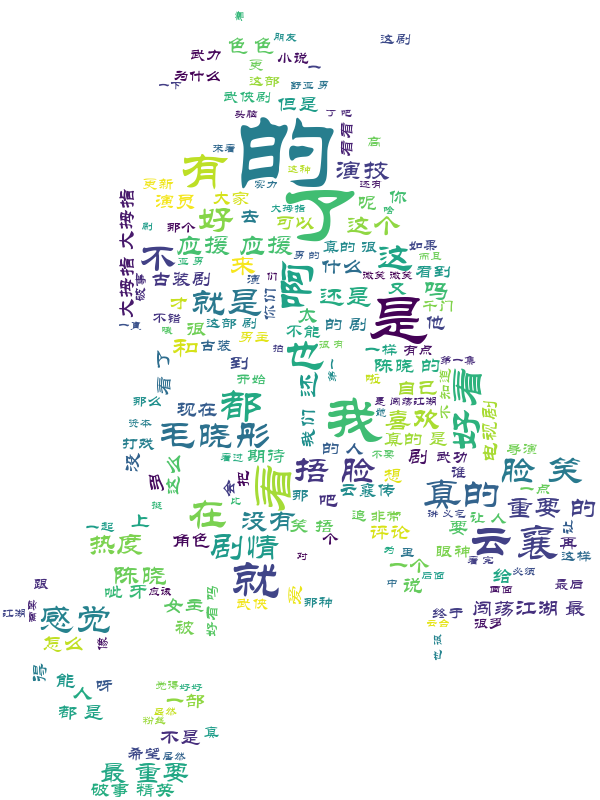
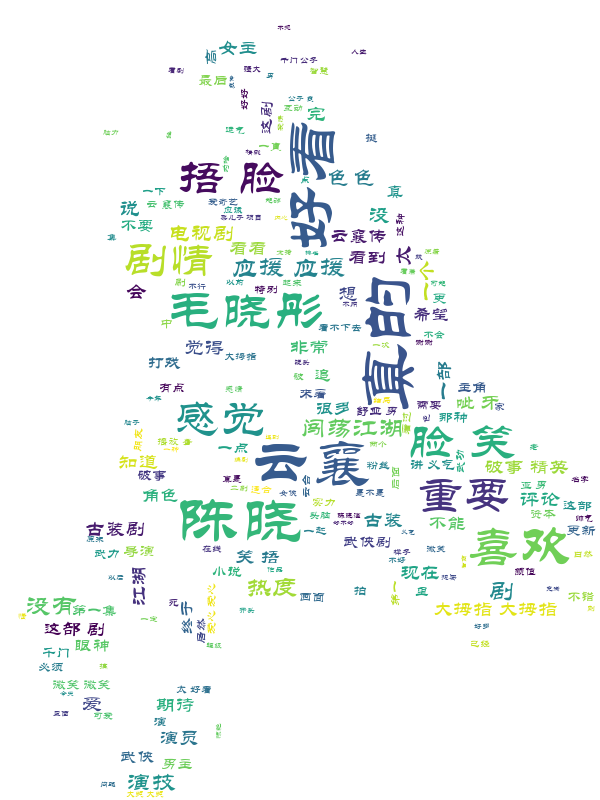
提高了封装性,迭代版本,删除了失效代码.

Changed region(s): [[0.0, 0.0, 0.99, 0.9062], [0.15, 0.8438, 0.39, 1.0], [0.63, 0.0312, 0.69, 0.0625]]

diff --git a/爬虫.py b/爬虫.py
@@ -49,70 +49,43 @@ def get_danmu():
     time.sleep(2)
 
 
-# def dorama_url_get():
-#     # url_1 = "https://v.qq.com/channel/tv/list?filter_params=ifeature%3D-1%26iarea%3D814%26iyear%3D2023%26ipay%3D-1%26sort%3D75&page_id=channel_list_second_page"
-#     url = "https://pbaccess.video.qq.com/trpc.vector_layout.page_view.PageService/getPage?video_appid=3000010"
-#     headers = {'User-Agent': 'Mozilla/5.0 (Windows NT 10.0; Win64; x64) AppleWebKit/537.36 (KHTML, like Gecko) Chrome/115.0.0.0 Safari/537.36 Edg/115.0.1901.183'}
-#     cookies = {"Cookie":"pgv_pvid=184197000; RK=S20sAhgAH/; ptcz=77015465c8b1c3cf6c05b8fd49727f783a61aca766fa4ffaf42994df2f8236d8; pac_uid=1_1214602074; iip=0; eas_sid=a1X6I9n0F1U1w041v3s6K6r9C1; qq_domain_video_guid_verify=4cccd06f254eab04; video_platform=2; video_guid=4cccd06f254eab04; pgv_info=ssid=s5322851164; o_cookie=1214602074; vversion_name=8.2.95; video_omgid=4cccd06f254eab04; _video_qq_login_time_init=1690377511; qz_gdt=seq4czadaaaimuaejdja; login_time_last=2023-7-26 21:37:26"}
-#     Post_data = {
-#         'caller_id'
-#         :
-#             "3000010",
-#         "data_mode"
-#         :
-#             "default",
-#         "page_id":"100113",
-#         "page_type":"channel",
-#        "platform_id":"2", "user_mode": "defau"
-#     }
-#     dorama_url = requests.post(url=url,headers=headers,cookies=cookies,data=Post_data).text
-#
-#     print(dorama_url)
-#     json.loads(dorama_url)
-#
-#     dorama_text = dorama_url
-
-
-
-pinglun_data = []
-
-
-def Iqiyi(content_id,pinglun_data,last_id='&'):
+def Iqiyi(name, content_id,last_id='&'):
     '''
 
     :param last_id:评论的最后一个id在接口请求中能够看到
     :param pinglun_data: 存放数据的list
     :return: 无return值 保存为一个csv文件
     '''
-
-    # https: // sns - comment.iqiyi.com / v3 / comment / get_baseline_comments.action?agent_type = 118 & agent_version = 9.11
-    # .5 & authcookie = null & business_type = 17 & channel_id = 2 & content_id = 8010127344745600 & last_id = & need_vote = 1 & page_size = 10 & qyid = e5debc58fe819b25ca6de2fe991d92cc & sort = HOT & tail_num = 1 & callback = jsonp_1690944202555_34284
-    headers = {"User-Agent":"Mozilla/5.0 (Windows NT 10.0; Win64; x64) AppleWebKit/537.36 (KHTML, like Gecko) Chrome/115.0.0.0 Safari/537.36 Edg/115.0.1901.183"}
-    sort=["TIMEDESC","HOT"]
-    url =f"https://sns-comment.iqiyi.com/v3/comment/get_baseline_comments.action?agent_type=118&agent_version=9.11.5&authcookie=null&business_type=17&channel_id=2&content_id={content_id}&last_id={last_id}&need_vote=1&page=NaN&page_size=40&qyid=e5debc58fe819b25ca6de2fe991d92cc&sort=HOT&tail_num=1&callback=jsonp_1690948653064_72360"
-    print(url)
-    Iqiyi_get = requests.get(url,headers=headers)
-    # 获取的数据被js外边包了一个壳 需要对数据进行处理后才能被json.loads解析
-    u1 = '{'+Iqiyi_get.text.lstrip('try{ jsonp_16904544092779_86397(').rstrip('}) }catch(e){};')+'}}' #删除获取json的外壳
-    # 这个壳我研究了很长时间 死活都没办法被json解析 后来我发现居然是因为我删除的时候多删除了一个括号MMP
-    json_data = json.loads(u1.encode("utf-8"))["data"]["comments"]
-    for comment in json_data:
-        print(comment["id"])
-        if 'content' in comment.keys():
-            pinglun_data.append([comment['content'],comment["userInfo"]["uname"]])
-        #更新last_id
-        last_id = comment["id"]
-    print(len(pinglun_data))
-
-
-
-    if len(pinglun_data) < 800:
+    pinglun_data = []
+    while len(pinglun_data) < 800:
         time.sleep(0.5)
-        Iqiyi(content_id,pinglun_data,last_id)
-        # 递归
+        headers = {"User-Agent":"Mozilla/5.0 (Windows NT 10.0; Win64; x64) AppleWebKit/537.36 (KHTML, like Gecko) Chrome/115.0.0.0 Safari/537.36 Edg/115.0.1901.183"}
+        sort=["TIMEDESC","HOT"]
+        url =f"https://sns-comment.iqiyi.com/v3/comment/get_baseline_comments.action?agent_type=118&agent_version=9.11.5&authcookie=null&business_type=17&channel_id=2&content_id={content_id}&last_id={last_id}&need_vote=1&page=NaN&page_size=40&qyid=e5debc58fe819b25ca6de2fe991d92cc&sort=HOT&tail_num=1&callback=jsonp_1690948653064_72360"
+        print(url)
+        Iqiyi_get = requests.get(url, headers=headers)
+        # 获取的数据被js外边包了一个壳 需要对数据进行处理后才能被json.loads解析
+        u1 = '{'+Iqiyi_get.text.lstrip('try{ jsonp_16904544092779_86397(').rstrip('}) }catch(e){};')+'}}' #删除获取json的外壳
+        # 这个壳我研究了很长时间 死活都没办法被json解析 后来我发现居然是因为我删除的时候多删除了一个括号MMP
+        comment_cont = json.loads(u1.encode("utf-8"))["data"]["totalCount"]
+        json_data = json.loads(u1.encode("utf-8"))["data"]["comments"]
+        for comment in json_data:
+            print(comment["id"])
+            if 'content' in comment.keys():
+                pinglun_data.append([comment['content'],comment["userInfo"]["uname"]])
+            #更新last_id
+            last_id = comment["id"]
+        print(len(pinglun_data))
+        if comment_cont-10 <= len(pinglun_data):
+            pd.DataFrame(pinglun_data).to_csv(f"./评论CSV/{name}.csv", mode="w")
+            pinglun_data.clear()
+            break
+
+
     else:
-        pd.DataFrame(pinglun_data).to_csv("理科生坠入情网.csv",mode="a")
-        return pinglun_data
+        pd.DataFrame(pinglun_data).to_csv(f"./评论CSV/{name}.csv", mode="w")
+        pinglun_data.clear()
+        return
     # 保存为csv
 
 
@@ -130,12 +103,13 @@ def dorama_data_get():
             for comment in json_data:
                 data_list = [comment["title"], comment["description"], comment["tag"], comment["showDate"],
                              [i["name"] for i in comment['creator']], [i["name"] for i in comment["contributor"]]
-                            ,comment["page_url"],comment["image_url_normal"],comment["time_length"],comment["hot_score"]]
+                            , comment["page_url"], comment["image_url_normal"], comment["time_length"], comment["hot_score"], comment["tv_id"]]
                 print(comment["page_url"])
                 print(comment["image_url_normal"])
                 print(data_list)
                 alldata_list.append(data_list)
                 time.sleep(0.5)
+
                 ## 这里是尝试使用接口获取数据,但是爱奇艺的接口被加密过,我没有办法自动获取接口进行爬取搁置在此
 
                 # dorama_data = requests.get(comment["page_url"], headers=headers).text
@@ -157,34 +131,26 @@ def dorama_data_get():
     except:
         mkdir("./爱奇艺数据/电视剧海报")
         for name in alldata_list:
-            picture_resp = requests.get(name[-3])
+            picture_resp = requests.get(name[-4])
             with open(f"./爱奇艺数据/电视剧海报/{name[0]}.jpg", mode='wb') as f:
                 f.write(picture_resp.content)
-        df = pd.DataFrame(alldata_list, columns=["title","description","tag","showDate", 'creators', "contributor", "page_url","img_url","time_length","hot_score"])
+        df = pd.DataFrame(alldata_list, columns=["title","description","tag","showDate", 'creators', "contributor", "page_url", "img_url", "time_length", "hot_score", "content_id"])
         df.to_csv("./爱奇艺数据/爱奇艺热播.csv")
         return alldata_list
 
 
-# def TXvideourl_get():
-#     url = "https://youku.com/channel/webtv/list?filter=type_%E7%94%B5%E8%A7%86%E5%89%A7_year_2023&spm=a2hja.14919748_WEBTV_JINGXUAN.drawer3.d_main_area_1"
-#     # headers = {'User-Agent': 'Mozilla/5.0 (Windows NT 10.0; Win64; x64) AppleWebKit/537.36 (KHTML, like Gecko) Chrome/115.0.0.0 Safari/537.36 Edg/115.0.1901.183', "Cookie":"pgv_pvid=184197000; RK=S20sAhgAH/; ptcz=77015465c8b1c3cf6c05b8fd49727f783a61aca766fa4ffaf42994df2f8236d8; pac_uid=1_1214602074; iip=0; eas_sid=a1X6I9n0F1U1w041v3s6K6r9C1; qq_domain_video_guid_verify=4cccd06f254eab04; video_platform=2; video_guid=4cccd06f254eab04; pgv_info=ssid=s5322851164; o_cookie=1214602074; vversion_name=8.2.95; video_omgid=4cccd06f254eab04; _video_qq_login_time_init=1690377511; qz_gdt=seq4czadaaaimuaejdja; login_time_last=2023-7-26 21:37:26"}
-#     data = requests.get(url=url, headers=headers).text
-#     obj = re.compile(r'<div class="videolist_container_inner">.*?<a class="aplus_exp aplus_clk" herf="(?P<url>.*?)"title="(?P<name>.*?)"target=.*?<img s'
-#                      r'rc="(?P<img_url>.*?)"',re.S)
-#     res = obj.finditer(data)
-#     for i in res:
-#         print(i)
+def comment_data_get(path):
+    df = pd.read_csv(path)
+    for title, content_id in df.iterrows():
+        Iqiyi(content_id[1], content_id[-1])
 
 
 def youku():
-    print(1)
     TV_Data = []
     driver = webdriver.Chrome(executable_path="./chromedriver.exe")
-    print(1)
     driver.get("https://www.youku.com/channel/webtv/list?filter=type_%E7%94%B5%E8%A7%86%E5%89%A7_year_2023&spm=a2hja.14919748_WEBTV_JINGXUAN.drawer3.d_sort_1")
     css_selectors = ["#app > div.app_normal.window > div.modulelist_s_body > div.videolist_s_body > div > div > div:nth-child(4) > div > div:nth-child({}) > div > div > div.categorypack_info_list > div.categorypack_title.categorypack_short_title > a".format(str(i)) for i in range(41)]
     for css_selector in css_selectors:
-        print("1")
         if css_selector == "#app > div.app_normal.window > div.modulelist_s_body > div.videolist_s_body > div > div > div:nth-child(4) > div > div:nth-child(0) > div > div > div.categorypack_info_list > div.categorypack_title.categorypack_short_title > a":
             pass
         else:
@@ -213,8 +179,7 @@ if __name__ == "__main__":
     # dorama_url_get()
     # TXvideourl_get()
     # dorama_url_get()
-    Iqiyi("4892910860430400", pinglun_data)
+    # Iqiyi("测试","1116314049607400")
     # dorama_data_get()
-
-
+    comment_data_get("./爱奇艺数据/爱奇艺热播.csv")
 

diff --git a/词云制作.py b/词云制作.py
@@ -3,26 +3,31 @@ from wordcloud import WordCloud
 import jieba
 from PIL import Image  # 安装词云的时候一起装上的
 import numpy as np # 安装词云的时候一起装上的
+import os
+
+# 设置停用词表
 stopwords = set()
-content = [line.strip() for line in open('cn_stopwords.txt','r',encoding="utf-8").readlines()]
+content = [line.strip() for line in open('cn_stopwords.txt', 'r',encoding="utf-8").readlines()]
 stopwords.update(content)
 
 # 读取影评，返回影评列表
+
 def readComment(name):
-    with open(f"./评论csv800条 再多没啥意思/{name}.csv",'r',encoding="utf-8") as file:
+    with open(f"./评论CSV/{name}.csv", 'r',encoding="utf-8") as file:
         csvRead = csv.reader(file) #加载文件数据
         return [item[1] for item in csvRead] #这是一个列表生成式
         #生成的item应该是一个二维列表。item[2]则表示item的第二列元素
         #返回值是一个列表，列表元素是影评的内容
 # 生成词云图
+
 def generateWordCloud(name):
     commentlist = readComment(name) #获取影评内容
     finalComment = ""
     for comment in commentlist:
-        finalComment+=comment  #把所有影评拼接成一个字符串
+        finalComment += comment  #把所有影评拼接成一个字符串
 
     # 读取轮廓图片,并且处理为ndarray的格式（numpy）
-    image = np.array(Image.open('./0.jpg'))  # 1.jpg 必须是一个白底图片，且图片内容不能有白色
+    image = np.array(Image.open('./0.jpg'))  # 0.jpg 必须是一个白底图片，且图片内容不能有白色
     # 使用了image属性，词云会生成为所选用图片轮廓的形状
     # 词云的属性
     wordCloud = WordCloud(
@@ -31,11 +36,19 @@ def generateWordCloud(name):
         font_path = "STLITI.TTF", # 字体路径  在C:\Windows\Fonts目录下找一个中文样式的字体复制到工作目录
         background_color = "white", # 背景颜色
         mask = image,  # 图片的轮廓 #可选属性，不选择默认是矩形词云
-    stopwords=stopwords).generate(" ".join(jieba.cut(finalComment)))  #jieba.cut(finalComment)) :把影评的字符串切割成词语  generate：把词语组成词云
+        stopwords=stopwords).generate(" ".join(jieba.cut(finalComment)))  #jieba.cut(finalComment)) :把影评的字符串切割成词语  generate：把词语组成词云
     # 生成词云文件
-    wordCloud.to_file(f'{name}.png')
+    wordCloud.to_file(f'./词云/{name}.png')
 
+
+def get_file_name(path):
+    file_dir = path
+    files = os.listdir(file_dir)
+    return files
 
 
 if __name__ == '__main__':
-    generateWordCloud("pinglun3")
+    path = "D:\数据分析项目\评论CSV"
+    a = get_file_name(path)
+    for i in a:
+        generateWordCloud(i[:-4])
